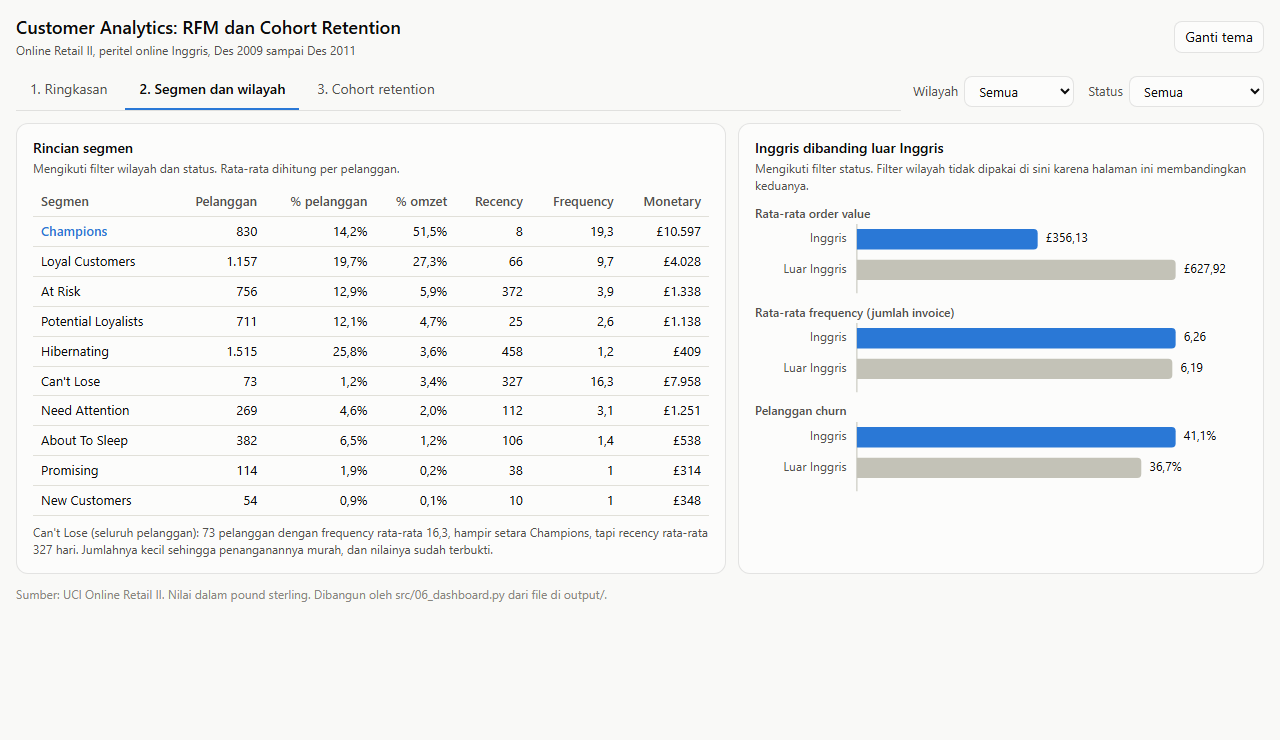
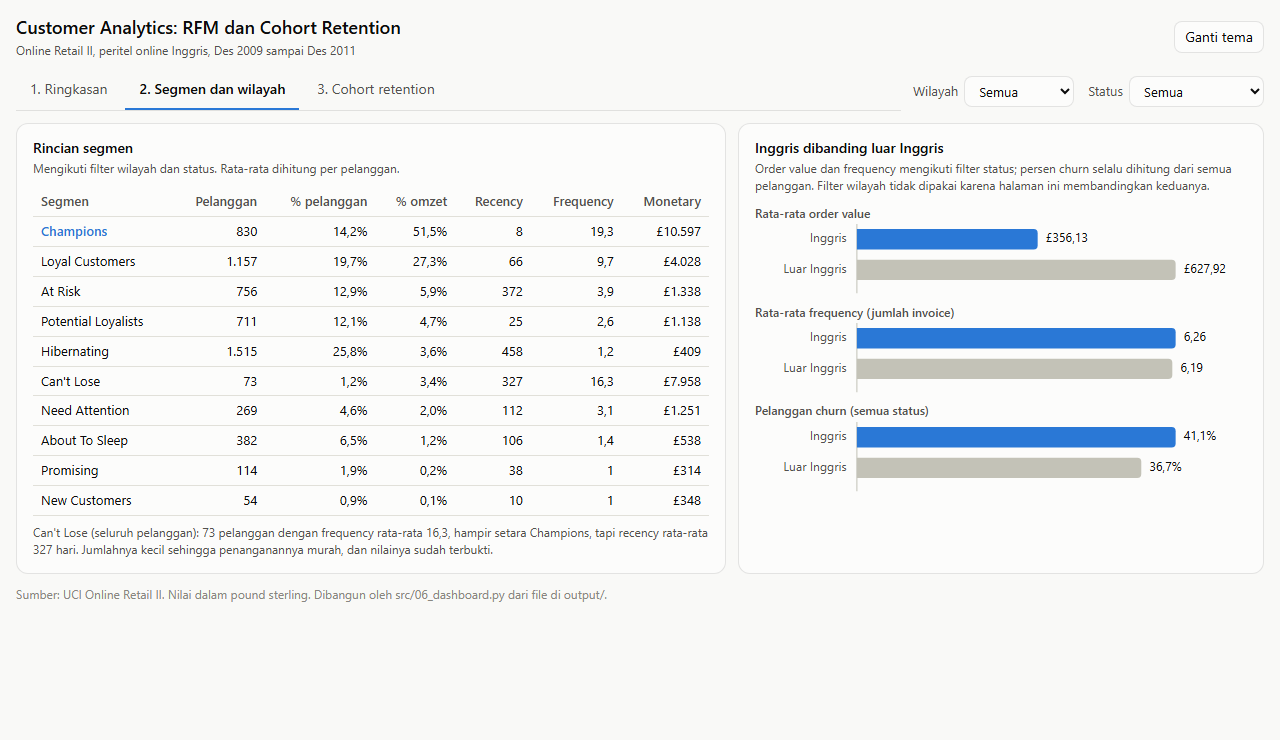
perbaiki: kartu utama menyorot segmen terbesar saat Champions tidak ada, churn dihitung terhadap wilayah (bukan status), tambah catatan status churn dan measure Churn Rate (Region)

Changed region(s): [[0.5938, 0.2176, 0.9688, 0.2797], [0.6562, 0.5284, 0.7188, 0.5595]]

diff --git a/dashboard/customer_analytics.html b/dashboard/customer_analytics.html
@@ -113,6 +113,8 @@ footer { color: var(--muted); font-size: 12px; margin-top: 12px; }
     </div>
   </div>
 
+  <p class="note" id="catatan-churn" hidden>Pada status churn, segmen dengan Recency tinggi (Champions, Potential Loyalists, Promising, New Customers) memang tidak muncul: churn berarti tidak belanja lebih dari 180 hari, dan segmen itu dibentuk dari pelanggan yang baru belanja.</p>
+
   <!-- Halaman 1: gambaran besar -->
   <main class="page p1 on" id="ringkasan" role="tabpanel" aria-labelledby="tab-ringkasan">
     <div class="card hero">
@@ -123,7 +125,7 @@ footer { color: var(--muted); font-size: 12px; margin-top: 12px; }
       <div class="card tile"><div class="lab">Pelanggan</div><div class="val" id="k-pel">-</div></div>
       <div class="card tile"><div class="lab">Total omzet</div><div class="val" id="k-omzet">-</div></div>
       <div class="card tile"><div class="lab">Rata-rata order value</div><div class="val" id="k-aov">-</div></div>
-      <div class="card tile"><div class="lab">Pelanggan churn</div><div class="val" id="k-churn">-</div></div>
+      <div class="card tile"><div class="lab">Pelanggan churn (di wilayah ini)</div><div class="val" id="k-churn">-</div></div>
     </div>
     <section class="card a">
       <h2>Kontribusi omzet per segmen</h2>
@@ -148,10 +150,10 @@ footer { color: var(--muted); font-size: 12px; margin-top: 12px; }
     </section>
     <section class="card">
       <h2>Inggris dibanding luar Inggris</h2>
-      <p class="cap">Mengikuti filter status. Filter wilayah tidak dipakai di sini karena halaman ini membandingkan keduanya.</p>
+      <p class="cap">Order value dan frequency mengikuti filter status; persen churn selalu dihitung dari semua pelanggan. Filter wilayah tidak dipakai karena halaman ini membandingkan keduanya.</p>
       <div class="mini"><h3>Rata-rata order value</h3><div id="w-aov"></div></div>
       <div class="mini"><h3>Rata-rata frequency (jumlah invoice)</h3><div id="w-freq"></div></div>
-      <div class="mini"><h3>Pelanggan churn</h3><div id="w-churn"></div></div>
+      <div class="mini"><h3>Pelanggan churn (semua status)</h3><div id="w-churn"></div></div>
     </section>
   </main>
 
@@ -254,17 +256,26 @@ function gambarBar(wadah, items, opsi) {
 function ringkas() {
   const sub = subset(), n = sub.length;
   const omzet = sub.reduce((a, c) => a + c[IDX.rev], 0);
-  const churn = sub.filter((c) => c[IDX.churn] === 1).length;
   $("k-pel").textContent = fInt(n);
   $("k-omzet").textContent = fOmzet(omzet);
   $("k-aov").textContent = n ? "£" + fDes(rata(sub, IDX.aov)) : "-";
-  $("k-churn").textContent = n ? fPct(churn / n * 100) + " (" + fInt(churn) + ")" : "-";
-  const champ = sub.filter((c) => c[IDX.seg] === 0);
-  const pRev = omzet ? champ.reduce((a, c) => a + c[IDX.rev], 0) / omzet * 100 : 0;
-  $("hero-angka").textContent = fPct(pRev);
-  $("hero-teks").textContent = fPct(n ? champ.length / n * 100 : 0) + " pelanggan (" + fInt(champ.length) +
-    ", segmen Champions) menyumbang " + fPct(pRev) + " omzet pada filter ini.";
+  // Churn dihitung terhadap wilayah yang dipilih, bukan terhadap status: kalau status ikut
+  // difilter, hasilnya selalu 100% atau 0% dan tidak memberi informasi.
+  const wilayah = D.pelanggan.filter((c) => S.wilayah === "semua" || (S.wilayah === "uk") === (c[IDX.uk] === 1));
+  const churn = wilayah.filter((c) => c[IDX.churn] === 1).length;
+  $("k-churn").textContent = fPct(churn / wilayah.length * 100) + " (" + fInt(churn) + ")";
+  $("catatan-churn").hidden = S.status !== "churn" || halaman === "cohort";
   return { sub, n, omzet };
+}
+// Kartu utama menyorot Champions. Kalau Champions tidak ada pada filter (status churn berarti
+// Recency > 180 hari, mustahil jadi Champions), pindah ke segmen terbesar supaya tidak tampil 0%.
+function pilihSorotan(per) { return per.find((p) => p.i === 0 && p.n > 0) || per[0]; }
+function isiHero(per, sorot) {
+  $("hero-angka").textContent = fPct(sorot.pRev);
+  let teks = fPct(sorot.pPel) + " pelanggan (" + fInt(sorot.n) + ", segmen " + sorot.nama + ") menyumbang " +
+    fPct(sorot.pRev) + " omzet pada filter ini.";
+  if (sorot.i !== 0) teks += " Champions tidak ada pada filter ini, jadi yang disorot segmen terbesar.";
+  $("hero-teks").textContent = teks;
 }
 function ringkasanSegmen({ sub, n, omzet }) {
   return D.segmen.map((nama, i) => {
@@ -272,9 +283,9 @@ function ringkasanSegmen({ sub, n, omzet }) {
     return { nama, i, g, n: g.length, rev, pRev: omzet ? rev / omzet * 100 : 0, pPel: n ? g.length / n * 100 : 0 };
   }).sort((a, b) => b.pRev - a.pRev);
 }
-function gambarSegmenBar(per) {
+function gambarSegmenBar(per, sorot) {
   gambarBar($("seg-grafik"), per.map((p) => ({
-    nama: p.nama, nilai: p.pRev, warna: p.i === 0 ? css("--accent") : css("--soft"), label: fPct(p.pRev),
+    nama: p.nama, nilai: p.pRev, warna: p.i === sorot.i ? css("--accent") : css("--soft"), label: fPct(p.pRev),
     tip: [["Omzet", fPct(p.pRev)], ["Pelanggan", fInt(p.n) + " (" + fPct(p.pPel) + ")"]],
   })), { kiri: 130, maks: Math.max(...per.map((p) => p.pRev), 1), baris: 31, aria: "Kontribusi omzet per segmen pelanggan" });
 }
@@ -308,13 +319,16 @@ function gambarWilayah() {
   const dasar = D.pelanggan.filter((c) => S.status === "semua" || (S.status === "churn") === (c[IDX.churn] === 1));
   const grup = [["Inggris", dasar.filter((c) => c[IDX.uk] === 1), css("--accent")],
     ["Luar Inggris", dasar.filter((c) => c[IDX.uk] === 0), css("--soft")]];
+  // Persen churn dihitung dari semua status; kalau status ikut difilter hasilnya selalu 100% atau 0%.
+  const grupSemuaStatus = [D.pelanggan.filter((c) => c[IDX.uk] === 1), D.pelanggan.filter((c) => c[IDX.uk] === 0)];
   const ukuran = [
     ["w-aov", (g) => rata(g, IDX.aov), (v) => "£" + fDes(v), "Rata-rata order value"],
     ["w-freq", (g) => rata(g, IDX.frq), (v) => v.toLocaleString("id-ID", { minimumFractionDigits: 2, maximumFractionDigits: 2 }), "Rata-rata frequency"],
     ["w-churn", (g) => g.filter((c) => c[IDX.churn] === 1).length / g.length * 100, fPct, "Pelanggan churn"],
   ];
   ukuran.forEach(([id, fn, fmt, nama]) => {
-    const item = grup.map(([n, g, w]) => ({ nama: n, nilai: g.length ? fn(g) : 0, warna: w, g }));
+    const item = grup.map(([n, g, w], j) => { const gg = id === "w-churn" ? grupSemuaStatus[j] : g;
+      return { nama: n, nilai: gg.length ? fn(gg) : 0, warna: w, g: gg }; });
     gambarBar($(id), item.map((it) => ({ nama: it.nama, nilai: it.nilai, warna: it.warna, label: fmt(it.nilai),
       tip: [[nama, fmt(it.nilai)], ["Pelanggan", fInt(it.g.length)]] })),
       { kiri: 100, maks: Math.max(...item.map((i) => i.nilai), 1), baris: 30, aria: nama + " Inggris dan luar Inggris" });
@@ -394,8 +408,10 @@ function gambarHeat() {
 let halaman = "ringkasan";
 function semua() {
   const r = ringkas(); // kartu angka selalu dihitung ulang
-  if (halaman === "ringkasan") { gambarSegmenBar(ringkasanSegmen(r)); gambarAov(); }
-  if (halaman === "segmen") { tabelSegmen(ringkasanSegmen(r)); gambarWilayah(); }
+  const per = ringkasanSegmen(r), sorot = pilihSorotan(per);
+  isiHero(per, sorot);
+  if (halaman === "ringkasan") { gambarSegmenBar(per, sorot); gambarAov(); }
+  if (halaman === "segmen") { tabelSegmen(per); gambarWilayah(); }
   if (halaman === "cohort") { gambarRetention(); gambarHeat(); }
 }
 function bukaHalaman(nama, fokus) {

diff --git a/src/dashboard_template.html b/src/dashboard_template.html
@@ -113,6 +113,8 @@ footer { color: var(--muted); font-size: 12px; margin-top: 12px; }
     </div>
   </div>
 
+  <p class="note" id="catatan-churn" hidden>Pada status churn, segmen dengan Recency tinggi (Champions, Potential Loyalists, Promising, New Customers) memang tidak muncul: churn berarti tidak belanja lebih dari 180 hari, dan segmen itu dibentuk dari pelanggan yang baru belanja.</p>
+
   <!-- Halaman 1: gambaran besar -->
   <main class="page p1 on" id="ringkasan" role="tabpanel" aria-labelledby="tab-ringkasan">
     <div class="card hero">
@@ -123,7 +125,7 @@ footer { color: var(--muted); font-size: 12px; margin-top: 12px; }
       <div class="card tile"><div class="lab">Pelanggan</div><div class="val" id="k-pel">-</div></div>
       <div class="card tile"><div class="lab">Total omzet</div><div class="val" id="k-omzet">-</div></div>
       <div class="card tile"><div class="lab">Rata-rata order value</div><div class="val" id="k-aov">-</div></div>
-      <div class="card tile"><div class="lab">Pelanggan churn</div><div class="val" id="k-churn">-</div></div>
+      <div class="card tile"><div class="lab">Pelanggan churn (di wilayah ini)</div><div class="val" id="k-churn">-</div></div>
     </div>
     <section class="card a">
       <h2>Kontribusi omzet per segmen</h2>
@@ -148,10 +150,10 @@ footer { color: var(--muted); font-size: 12px; margin-top: 12px; }
     </section>
     <section class="card">
       <h2>Inggris dibanding luar Inggris</h2>
-      <p class="cap">Mengikuti filter status. Filter wilayah tidak dipakai di sini karena halaman ini membandingkan keduanya.</p>
+      <p class="cap">Order value dan frequency mengikuti filter status; persen churn selalu dihitung dari semua pelanggan. Filter wilayah tidak dipakai karena halaman ini membandingkan keduanya.</p>
       <div class="mini"><h3>Rata-rata order value</h3><div id="w-aov"></div></div>
       <div class="mini"><h3>Rata-rata frequency (jumlah invoice)</h3><div id="w-freq"></div></div>
-      <div class="mini"><h3>Pelanggan churn</h3><div id="w-churn"></div></div>
+      <div class="mini"><h3>Pelanggan churn (semua status)</h3><div id="w-churn"></div></div>
     </section>
   </main>
 
@@ -254,17 +256,26 @@ function gambarBar(wadah, items, opsi) {
 function ringkas() {
   const sub = subset(), n = sub.length;
   const omzet = sub.reduce((a, c) => a + c[IDX.rev], 0);
-  const churn = sub.filter((c) => c[IDX.churn] === 1).length;
   $("k-pel").textContent = fInt(n);
   $("k-omzet").textContent = fOmzet(omzet);
   $("k-aov").textContent = n ? "£" + fDes(rata(sub, IDX.aov)) : "-";
-  $("k-churn").textContent = n ? fPct(churn / n * 100) + " (" + fInt(churn) + ")" : "-";
-  const champ = sub.filter((c) => c[IDX.seg] === 0);
-  const pRev = omzet ? champ.reduce((a, c) => a + c[IDX.rev], 0) / omzet * 100 : 0;
-  $("hero-angka").textContent = fPct(pRev);
-  $("hero-teks").textContent = fPct(n ? champ.length / n * 100 : 0) + " pelanggan (" + fInt(champ.length) +
-    ", segmen Champions) menyumbang " + fPct(pRev) + " omzet pada filter ini.";
+  // Churn dihitung terhadap wilayah yang dipilih, bukan terhadap status: kalau status ikut
+  // difilter, hasilnya selalu 100% atau 0% dan tidak memberi informasi.
+  const wilayah = D.pelanggan.filter((c) => S.wilayah === "semua" || (S.wilayah === "uk") === (c[IDX.uk] === 1));
+  const churn = wilayah.filter((c) => c[IDX.churn] === 1).length;
+  $("k-churn").textContent = fPct(churn / wilayah.length * 100) + " (" + fInt(churn) + ")";
+  $("catatan-churn").hidden = S.status !== "churn" || halaman === "cohort";
   return { sub, n, omzet };
+}
+// Kartu utama menyorot Champions. Kalau Champions tidak ada pada filter (status churn berarti
+// Recency > 180 hari, mustahil jadi Champions), pindah ke segmen terbesar supaya tidak tampil 0%.
+function pilihSorotan(per) { return per.find((p) => p.i === 0 && p.n > 0) || per[0]; }
+function isiHero(per, sorot) {
+  $("hero-angka").textContent = fPct(sorot.pRev);
+  let teks = fPct(sorot.pPel) + " pelanggan (" + fInt(sorot.n) + ", segmen " + sorot.nama + ") menyumbang " +
+    fPct(sorot.pRev) + " omzet pada filter ini.";
+  if (sorot.i !== 0) teks += " Champions tidak ada pada filter ini, jadi yang disorot segmen terbesar.";
+  $("hero-teks").textContent = teks;
 }
 function ringkasanSegmen({ sub, n, omzet }) {
   return D.segmen.map((nama, i) => {
@@ -272,9 +283,9 @@ function ringkasanSegmen({ sub, n, omzet }) {
     return { nama, i, g, n: g.length, rev, pRev: omzet ? rev / omzet * 100 : 0, pPel: n ? g.length / n * 100 : 0 };
   }).sort((a, b) => b.pRev - a.pRev);
 }
-function gambarSegmenBar(per) {
+function gambarSegmenBar(per, sorot) {
   gambarBar($("seg-grafik"), per.map((p) => ({
-    nama: p.nama, nilai: p.pRev, warna: p.i === 0 ? css("--accent") : css("--soft"), label: fPct(p.pRev),
+    nama: p.nama, nilai: p.pRev, warna: p.i === sorot.i ? css("--accent") : css("--soft"), label: fPct(p.pRev),
     tip: [["Omzet", fPct(p.pRev)], ["Pelanggan", fInt(p.n) + " (" + fPct(p.pPel) + ")"]],
   })), { kiri: 130, maks: Math.max(...per.map((p) => p.pRev), 1), baris: 31, aria: "Kontribusi omzet per segmen pelanggan" });
 }
@@ -308,13 +319,16 @@ function gambarWilayah() {
   const dasar = D.pelanggan.filter((c) => S.status === "semua" || (S.status === "churn") === (c[IDX.churn] === 1));
   const grup = [["Inggris", dasar.filter((c) => c[IDX.uk] === 1), css("--accent")],
     ["Luar Inggris", dasar.filter((c) => c[IDX.uk] === 0), css("--soft")]];
+  // Persen churn dihitung dari semua status; kalau status ikut difilter hasilnya selalu 100% atau 0%.
+  const grupSemuaStatus = [D.pelanggan.filter((c) => c[IDX.uk] === 1), D.pelanggan.filter((c) => c[IDX.uk] === 0)];
   const ukuran = [
     ["w-aov", (g) => rata(g, IDX.aov), (v) => "£" + fDes(v), "Rata-rata order value"],
     ["w-freq", (g) => rata(g, IDX.frq), (v) => v.toLocaleString("id-ID", { minimumFractionDigits: 2, maximumFractionDigits: 2 }), "Rata-rata frequency"],
     ["w-churn", (g) => g.filter((c) => c[IDX.churn] === 1).length / g.length * 100, fPct, "Pelanggan churn"],
   ];
   ukuran.forEach(([id, fn, fmt, nama]) => {
-    const item = grup.map(([n, g, w]) => ({ nama: n, nilai: g.length ? fn(g) : 0, warna: w, g }));
+    const item = grup.map(([n, g, w], j) => { const gg = id === "w-churn" ? grupSemuaStatus[j] : g;
+      return { nama: n, nilai: gg.length ? fn(gg) : 0, warna: w, g: gg }; });
     gambarBar($(id), item.map((it) => ({ nama: it.nama, nilai: it.nilai, warna: it.warna, label: fmt(it.nilai),
       tip: [[nama, fmt(it.nilai)], ["Pelanggan", fInt(it.g.length)]] })),
       { kiri: 100, maks: Math.max(...item.map((i) => i.nilai), 1), baris: 30, aria: nama + " Inggris dan luar Inggris" });
@@ -394,8 +408,10 @@ function gambarHeat() {
 let halaman = "ringkasan";
 function semua() {
   const r = ringkas(); // kartu angka selalu dihitung ulang
-  if (halaman === "ringkasan") { gambarSegmenBar(ringkasanSegmen(r)); gambarAov(); }
-  if (halaman === "segmen") { tabelSegmen(ringkasanSegmen(r)); gambarWilayah(); }
+  const per = ringkasanSegmen(r), sorot = pilihSorotan(per);
+  isiHero(per, sorot);
+  if (halaman === "ringkasan") { gambarSegmenBar(per, sorot); gambarAov(); }
+  if (halaman === "segmen") { tabelSegmen(per); gambarWilayah(); }
   if (halaman === "cohort") { gambarRetention(); gambarHeat(); }
 }
 function bukaHalaman(nama, fokus) {

diff --git a/src/07_powerbi_data.py b/src/07_powerbi_data.py
@@ -106,6 +106,14 @@ DIVIDE (
     [Customers]
 )
 
+// Persen churn terhadap semua pelanggan di wilayah yang dipilih, tanpa memedulikan slicer status.
+// Dipakai di kartu: kalau slicer status ikut berlaku, hasilnya selalu 100% (Churned) atau 0% (Active).
+Churn Rate (Region) =
+DIVIDE (
+    CALCULATE ( [Customers], customers[ChurnStatus] = "Churned", REMOVEFILTERS ( customers[ChurnStatus] ) ),
+    CALCULATE ( [Customers], REMOVEFILTERS ( customers[ChurnStatus] ) )
+)
+
 // Persen omzet satu segmen dari total omzet pada slicer yang aktif
 Revenue Share =
 DIVIDE (
@@ -194,9 +202,15 @@ tiap halaman satu fokus. Buat tiga halaman dan beri nama **Ringkasan**,
 | Card | `[Customers]` | |
 | Card | `[Total Revenue]` | format £ |
 | Card | `[Avg Order Value]` | format £ |
-| Card | `[Churn Rate]` | format persen |
+| Card | `[Churn Rate (Region)]` | format persen; pakai measure ini, bukan `[Churn Rate]`, supaya tidak jadi 100% saat slicer status = Churned |
 | Clustered bar | sumbu: `segments[Segment]`, nilai: `[Revenue Share]` | urutkan menurun menurut `[Revenue Share]`; warnai Champions biru `#2a78d6`, segmen lain abu-abu (Format > Bars > Colors > fx) |
 | Clustered bar | sumbu: `customers[ChurnStatus]`, nilai: `[Avg Order Value]` | aktif dibanding churn |
+
+Saat slicer `ChurnStatus` = Churned, `[Champions Revenue Share]` akan kosong atau 0 dan itu
+benar, bukan kesalahan measure. Churn berarti Recency lebih dari 180 hari, sedangkan Champions,
+Potential Loyalists, Promising, dan New Customers dibentuk dari pelanggan yang baru belanja,
+jadi tidak ada yang beririsan. Dashboard HTML menangani ini dengan menyorot segmen terbesar;
+di Power BI cukup tambahkan kotak teks yang menjelaskannya di dekat slicer.
 
 ### Halaman 2: Segmen dan wilayah
 
@@ -205,11 +219,11 @@ tiap halaman satu fokus. Buat tiga halaman dan beri nama **Ringkasan**,
 | Table | `segments[Segment]`, `[Customers]`, `[Customer Share]`, `[Revenue Share]`, `[Avg Recency]`, `[Avg Frequency]`, `[Avg Monetary]` | urutkan menurut `[Revenue Share]` menurun |
 | Clustered bar | sumbu: `customers[Region]`, nilai: `[Avg Order Value]` | Inggris dibanding luar Inggris |
 | Clustered bar | sumbu: `customers[Region]`, nilai: `[Avg Frequency]` | |
-| Clustered bar | sumbu: `customers[Region]`, nilai: `[Churn Rate]` | |
+| Clustered bar | sumbu: `customers[Region]`, nilai: `[Churn Rate (Region)]` | pakai measure ini supaya tidak ikut slicer status |
 
 Untuk tiga bar wilayah, matikan pengaruh slicer Region: pilih slicer Region, **Format >
 Edit interactions**, lalu klik ikon **None** di tiga visual itu. Halaman ini membandingkan
-kedua wilayah, jadi tidak boleh tersaring ke salah satunya. Slicer status tetap berlaku.
+kedua wilayah, jadi tidak boleh tersaring ke salah satunya. Slicer status tetap berlaku untuk order value dan frequency, tapi tidak untuk churn.
 
 ### Halaman 3: Cohort retention
 
@@ -231,7 +245,8 @@ Dengan semua slicer kosong, measure harus menghasilkan:
 | `[Customers]` | {a["jumlah_pelanggan"]:,} |
 | `[Total Revenue]` | {a["total_omzet"]:,.2f} |
 | `[Champions Revenue Share]` | {a["share_champions"]:.2f}% |
-| `[Churn Rate]` | {a["persen_churn"]:.2f}% |
+| `[Churn Rate]` dan `[Churn Rate (Region)]` | {a["persen_churn"]:.2f}% |
+| `[Churn Rate (Region)]` Region = UK, status apa pun | {a["churn_uk"]:.2f}% |
 | `[Avg Order Value]` | {a["aov_semua"]:.2f} |
 | `[Avg Order Value]` untuk Active / Churned | {a["aov_aktif"]:.2f} / {a["aov_churn"]:.2f} |
 | `[Avg Order Value]` dengan Region = UK / Non-UK | {a["aov_uk"]:.2f} / {a["aov_luar"]:.2f} |

diff --git a/dashboard/powerbi/POWERBI_GUIDE.md b/dashboard/powerbi/POWERBI_GUIDE.md
@@ -46,9 +46,15 @@ tiap halaman satu fokus. Buat tiga halaman dan beri nama **Ringkasan**,
 | Card | `[Customers]` | |
 | Card | `[Total Revenue]` | format £ |
 | Card | `[Avg Order Value]` | format £ |
-| Card | `[Churn Rate]` | format persen |
+| Card | `[Churn Rate (Region)]` | format persen; pakai measure ini, bukan `[Churn Rate]`, supaya tidak jadi 100% saat slicer status = Churned |
 | Clustered bar | sumbu: `segments[Segment]`, nilai: `[Revenue Share]` | urutkan menurun menurut `[Revenue Share]`; warnai Champions biru `#2a78d6`, segmen lain abu-abu (Format > Bars > Colors > fx) |
 | Clustered bar | sumbu: `customers[ChurnStatus]`, nilai: `[Avg Order Value]` | aktif dibanding churn |
+
+Saat slicer `ChurnStatus` = Churned, `[Champions Revenue Share]` akan kosong atau 0 dan itu
+benar, bukan kesalahan measure. Churn berarti Recency lebih dari 180 hari, sedangkan Champions,
+Potential Loyalists, Promising, dan New Customers dibentuk dari pelanggan yang baru belanja,
+jadi tidak ada yang beririsan. Dashboard HTML menangani ini dengan menyorot segmen terbesar;
+di Power BI cukup tambahkan kotak teks yang menjelaskannya di dekat slicer.
 
 ### Halaman 2: Segmen dan wilayah
 
@@ -57,11 +63,11 @@ tiap halaman satu fokus. Buat tiga halaman dan beri nama **Ringkasan**,
 | Table | `segments[Segment]`, `[Customers]`, `[Customer Share]`, `[Revenue Share]`, `[Avg Recency]`, `[Avg Frequency]`, `[Avg Monetary]` | urutkan menurut `[Revenue Share]` menurun |
 | Clustered bar | sumbu: `customers[Region]`, nilai: `[Avg Order Value]` | Inggris dibanding luar Inggris |
 | Clustered bar | sumbu: `customers[Region]`, nilai: `[Avg Frequency]` | |
-| Clustered bar | sumbu: `customers[Region]`, nilai: `[Churn Rate]` | |
+| Clustered bar | sumbu: `customers[Region]`, nilai: `[Churn Rate (Region)]` | pakai measure ini supaya tidak ikut slicer status |
 
 Untuk tiga bar wilayah, matikan pengaruh slicer Region: pilih slicer Region, **Format >
 Edit interactions**, lalu klik ikon **None** di tiga visual itu. Halaman ini membandingkan
-kedua wilayah, jadi tidak boleh tersaring ke salah satunya. Slicer status tetap berlaku.
+kedua wilayah, jadi tidak boleh tersaring ke salah satunya. Slicer status tetap berlaku untuk order value dan frequency, tapi tidak untuk churn.
 
 ### Halaman 3: Cohort retention
 
@@ -83,7 +89,8 @@ Dengan semua slicer kosong, measure harus menghasilkan:
 | `[Customers]` | 5,861 |
 | `[Total Revenue]` | 17,073,078.29 |
 | `[Champions Revenue Share]` | 51.52% |
-| `[Churn Rate]` | 40.73% |
+| `[Churn Rate]` dan `[Churn Rate (Region)]` | 40.73% |
+| `[Churn Rate (Region)]` Region = UK, status apa pun | 41.12% |
 | `[Avg Order Value]` | 380.53 |
 | `[Avg Order Value]` untuk Active / Churned | 407.81 / 340.81 |
 | `[Avg Order Value]` dengan Region = UK / Non-UK | 356.13 / 627.92 |
